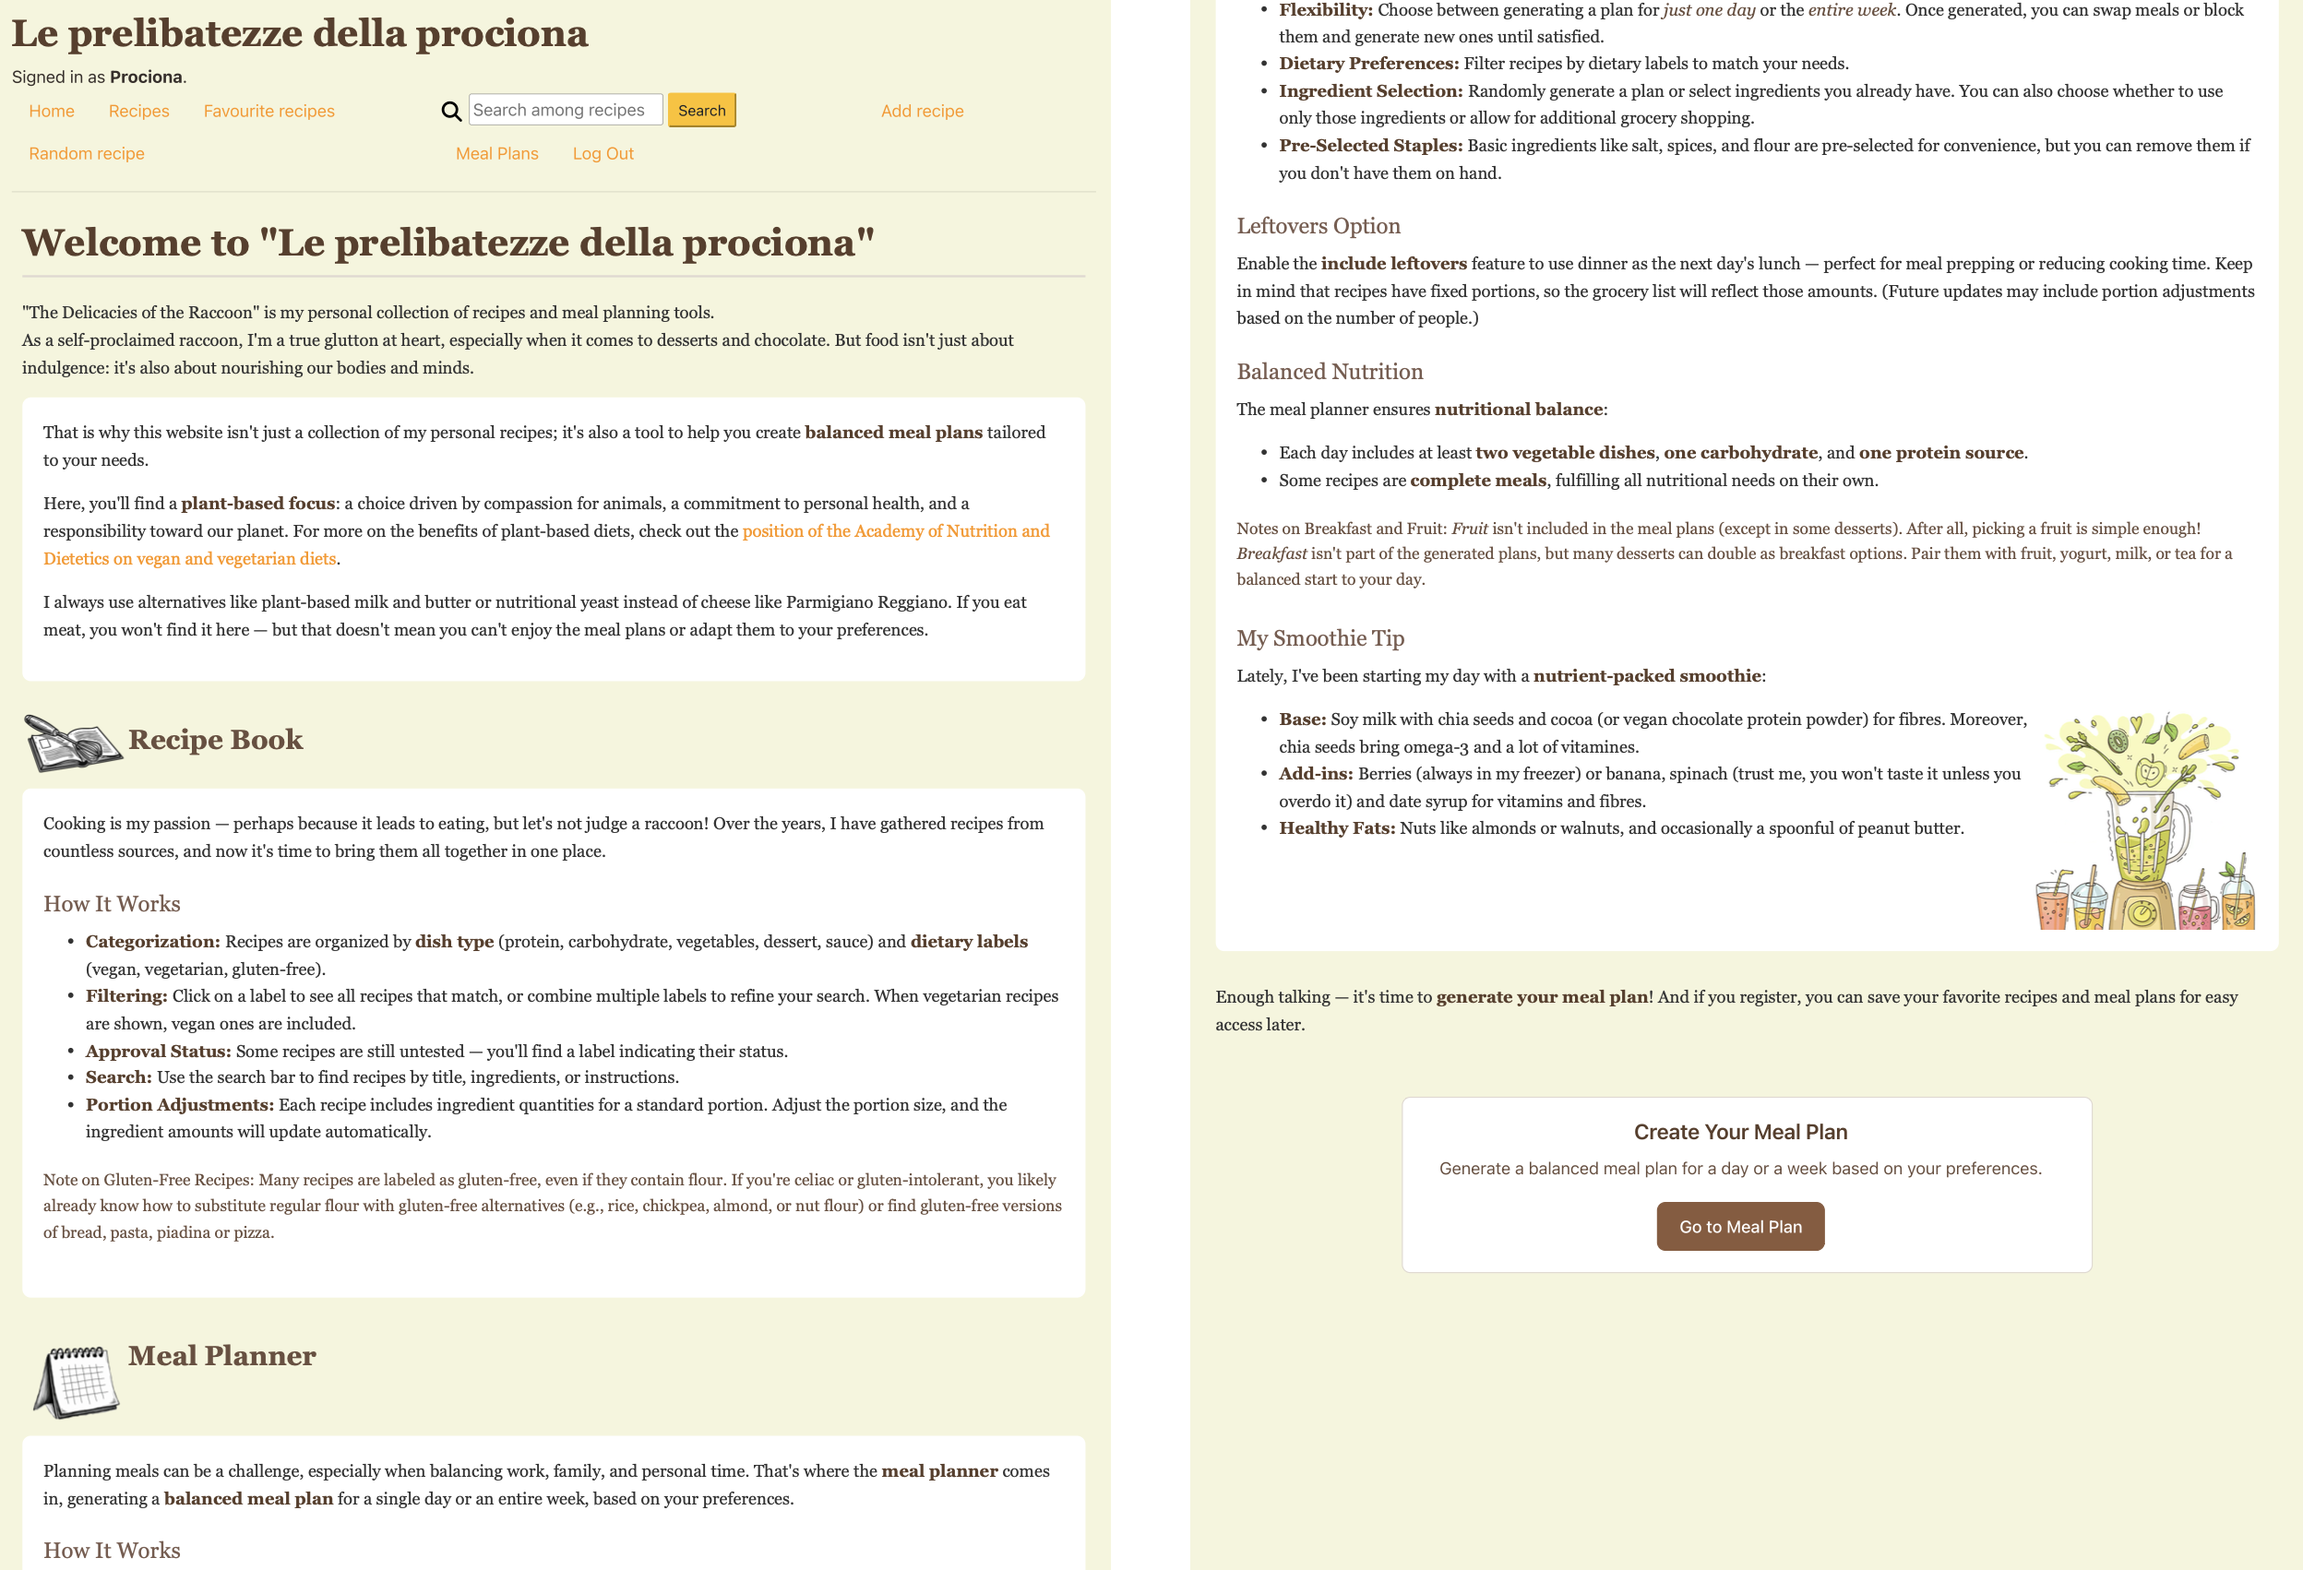
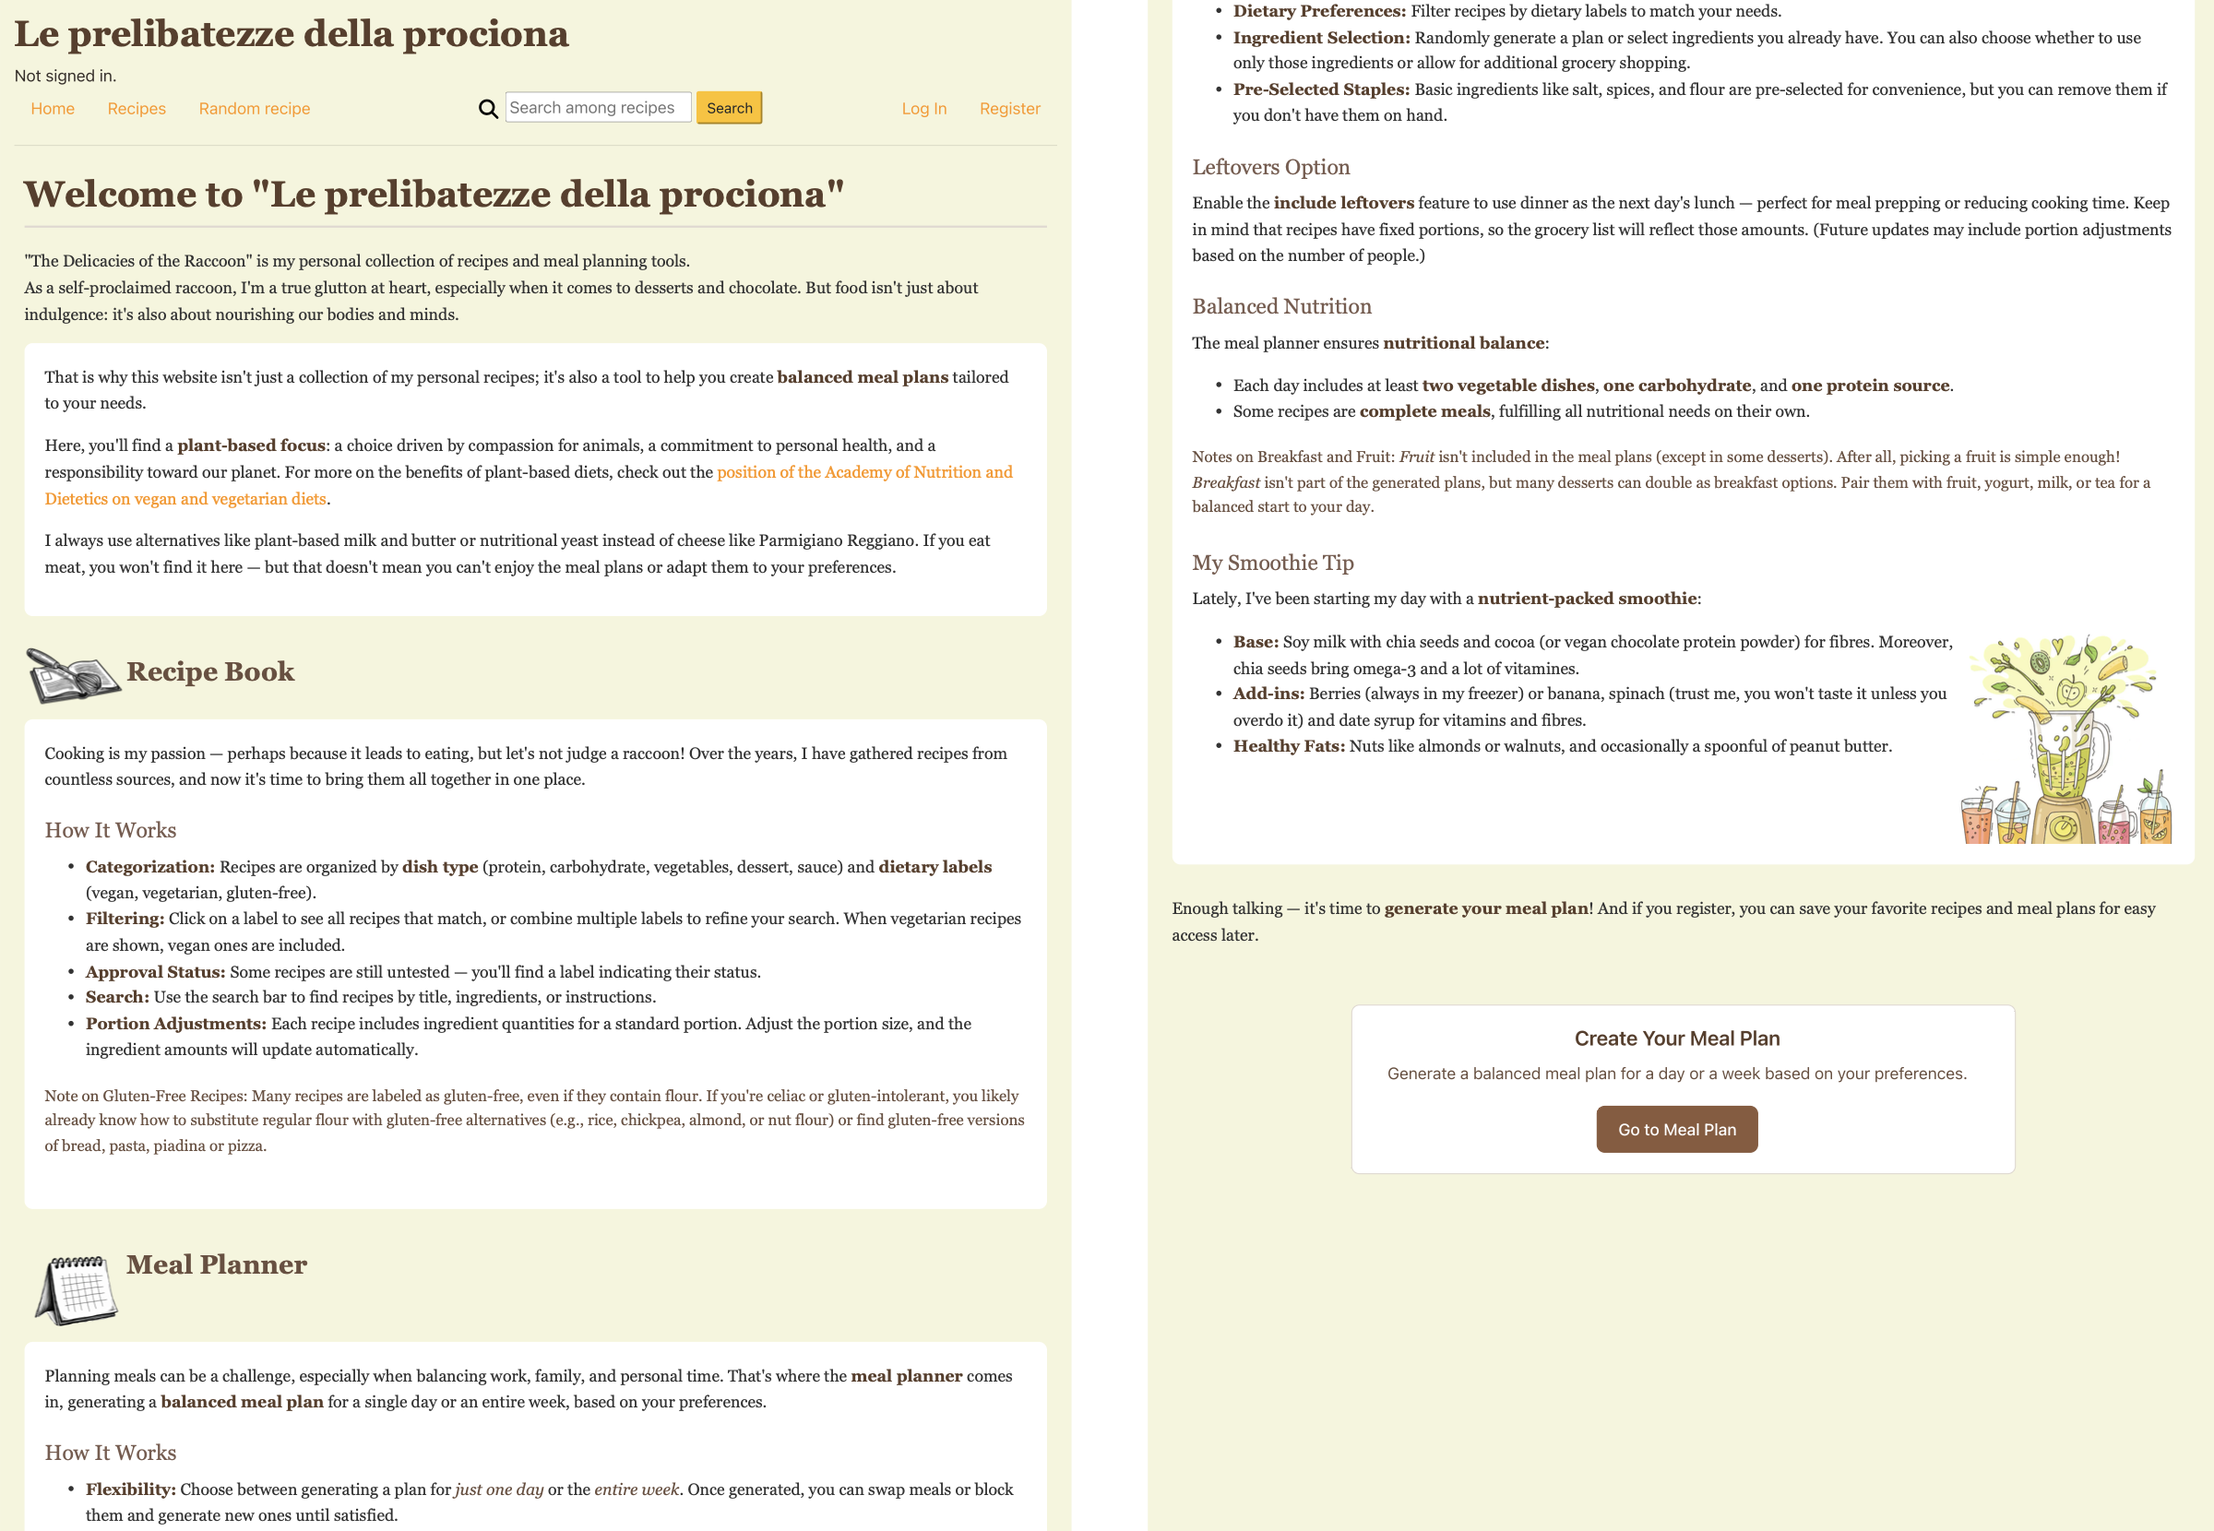
update readme

diff --git a/Final project/README.md b/Final project/README.md
@@ -1,19 +1,19 @@
 # Final project: recipe book & meal plan
 > [!NOTE]
-> Recipe book is finished, meal plan is almost finished, some refinements are in progress.
+> Recipe book is finished, meal plan is almost finished, a small task is in progress but it can be used meanwhile.
 
-This web application is an online recipe book and meal planner, the workings of which are explained on the homepage. The former is designed to help users discover and save recipes, while the latter generates a balanced meal plan based on user's inputs.<br>
+This web application is an online recipe book and meal planner, the workings of which are explained on the homepage. The former is designed to help users discover and save recipes, while the latter generates a balanced meal plan based on users' inputs.<br>
 Users can filter recipes by dish type (protein, carbohydrate, vegetables, dessert, sauce), dietary label (vegan, vegetarian, gluten-free) and approval status (whether the recipe has been approved by the super user or not). Additionally, users can search for recipes based on title, ingredients, or procedure.<br>
-For every recipe, users can adjust the portion size, and the ingredient quantities will automatically scale accordingly, allowing for meal planning and cooking flexibility. Moreover, they can check off the ingredients to track what they have already used. After each recipe, a maximum of four recipes is recommended based on the first four ingredients.
+For every recipe, users can adjust the portion size, and the ingredient quantities will automatically scale accordingly, allowing for meal planning and cooking flexibility. Moreover, they can check off the ingredients to track what they have already used. After each recipe, other similar recipes are recommended based on the first four ingredients.
 
 <p align="center">
   <img src="final_project/media/images/homepage.png" /><br>
- Homepage explains recipe book and meal plan generation.
+ Homepage, explaining the recipe book and meal plan generation.
 </p>
 
 <p align="center">
   <img src="final_project/media/images/recipes.png" /><br>
- Recipes page.
+ Recipes page, where users can filter by dish, label and approval status, or search by words.
 </p>
 
 <p align="center">
@@ -86,12 +86,14 @@ The application includes the following models:
 - **`random_recipe`**: randomly shows a single recipe.
 - **`favourites`**: displays the user's saved recipes.
 - **`search`**: search for recipes where the query is contained in the title, procedure or ingredients.
-- **`add_recipe`** and **`edit_recipe`**: only the super user can add new recipes and edit them.
-- **`generate_mealplan`** and **`mealplan_result`**: allow users to create and modify meal plans.
+- **`add_recipe`** and **`edit_recipe`**: only the super user can add new recipes and edit them
+- **`edit_recipe`** and **`toggle_is_new`**: without opening Django administration, the super user can edit a recipe and approve it directly on the recipe page.
+- **`generate_mealplan`**, **`mealplan_result`** and **`save_mealplan`**: allow users to generate, modify and save meal plans. The former function has some helper functions
+- **`user_mealplans`** and **`delete_mealplan`**: users can access to their meal plans and delete them.
 
 ### Static Files
 - **CSS**: custom styles for the application, including responsive design, such as the "copied!" message when the grocery list is copied.
-- **JavaScript**: handles dynamic features like chosen plugin, infinite scroll, portion scaling, ingredient checklists, recipe editing, adding and removing an ingredient when creating a recipe. Particularly in the mealplan application, it shows and hides the ingredient selection field when generating a plan and, most importantly, it allows the user to modify a meal plan by dragging each meal and blocking it for future generation; it also allows the user to copy the grocery list.
+- **JavaScript**: handles dynamic features like chosen plugin, infinite scroll, portion scaling, ingredient checklists, recipe editing, adding and removing an ingredient when creating a recipe. Particularly, in the mealplan application, it shows and hides the ingredient selection field when generating a plan and, most importantly, it allows the user to modify a meal plan by dragging each meal; it also allows the user to copy the grocery list.
 - **Images**: personally uploaded recipe images are stored in the `media` directory, while others are public urls.
 - 
 ## How to run
